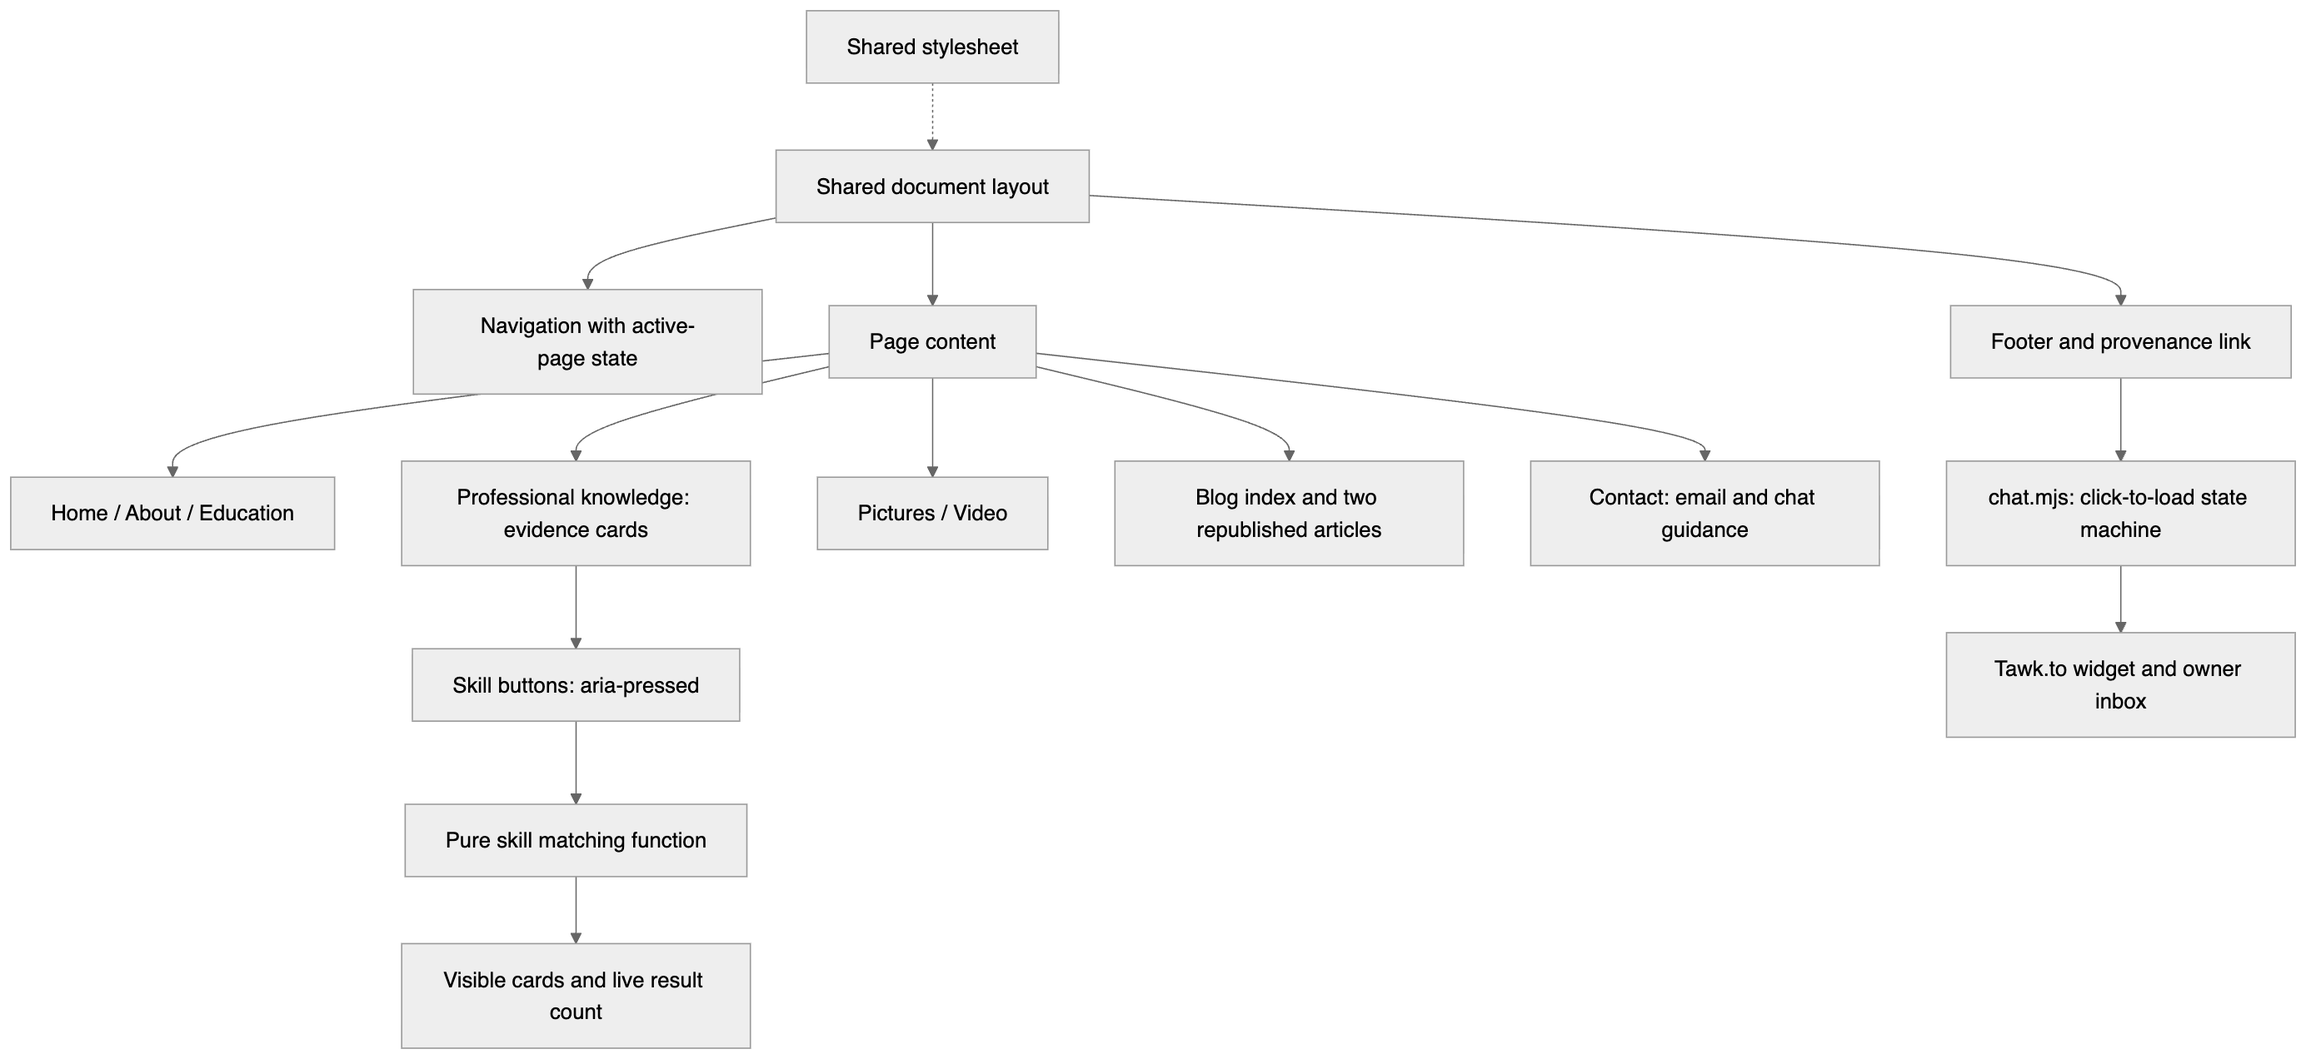
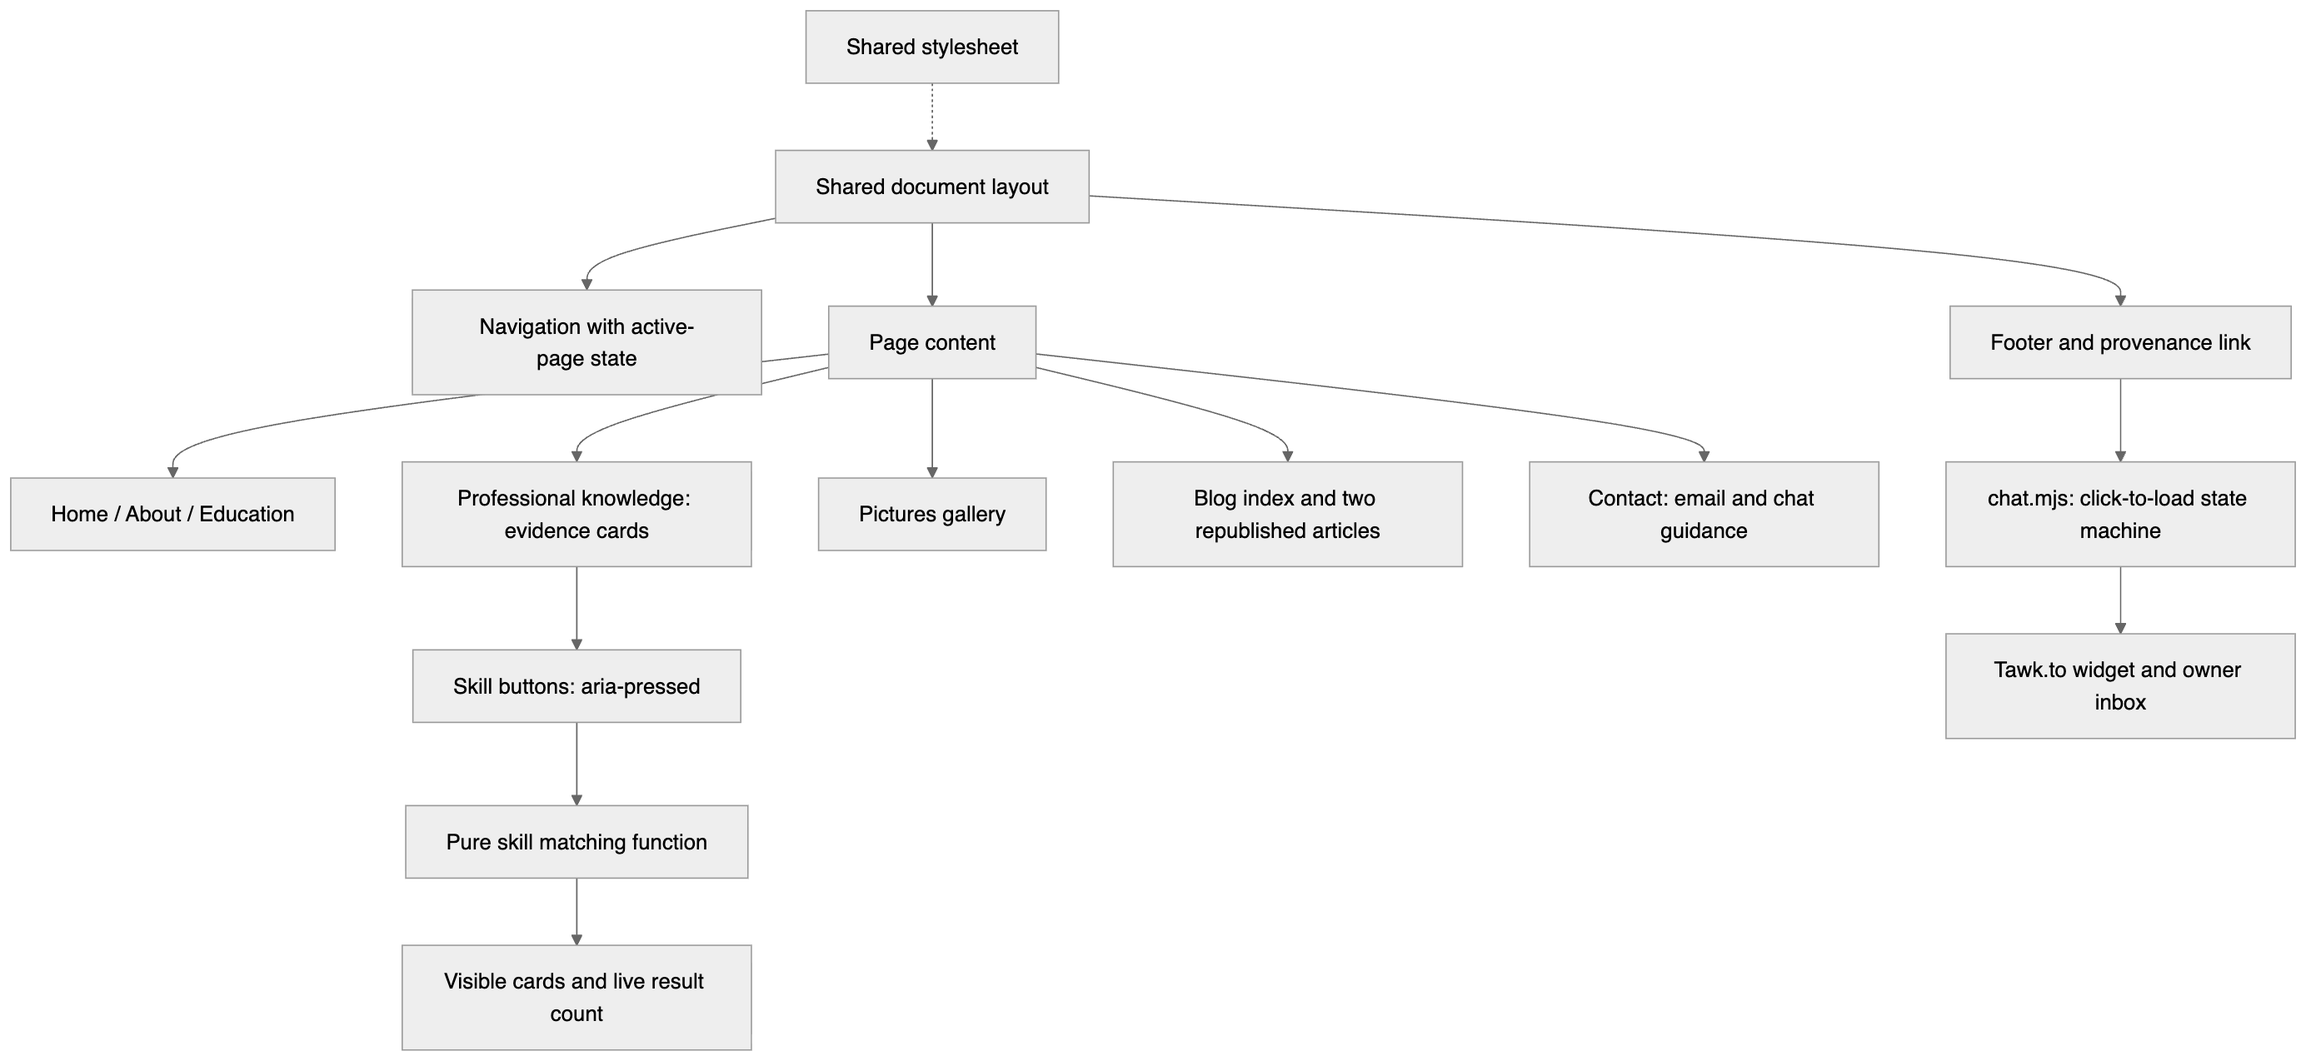
feat(cs5709): remove the video gallery, which Phase 1 does not require
The page only ever showed an unfinished notice. The navigation, tests, report, design diagram and README now describe five content pages plus blog and contact, with video proposed for Phase 2.

diff --git a/2026-27/SEM1/CS5709 - Software Engineering Evolution/Assignment 1/report/source.html b/2026-27/SEM1/CS5709 - Software Engineering Evolution/Assignment 1/report/source.html
@@ -45,13 +45,13 @@
 
 <section id="abstract">
   <h2>2. Abstract</h2>
-  <p>This project is a digital portfolio that presents my education, professional engineering work, event photographs and technical writing, and lets visitors message me directly. It is a separate site from my production portfolio, built to be small enough to explain completely. A Node.js build script combines one module per page with a shared layout and writes plain HTML documents, which Appwrite Sites serves. CSS provides a responsive layout, and two small browser scripts add progressive enhancements: a filter that links skills to project evidence, and a hosted Tawk.to chat widget that loads only after the visitor chooses to open it. All content stays readable without JavaScript. The work was carried out in three dated iterations recorded in Git, and is checked by 25 automated tests (structure, links, contrast, filtering, chat loading and a 404 regression) plus browser checks on the live site at desktop and mobile widths. The main remaining limitation is the video gallery (see Section 6).</p>
+  <p>This project is a digital portfolio that presents my education, professional engineering work, event photographs and technical writing, and lets visitors message me directly. It is a separate site from my production portfolio, built to be small enough to explain completely. A Node.js build script combines one module per page with a shared layout and writes plain HTML documents, which Appwrite Sites serves. CSS provides a responsive layout, and two small browser scripts add progressive enhancements: a filter that links skills to project evidence, and a hosted Tawk.to chat widget that loads only after the visitor chooses to open it. All content stays readable without JavaScript. The work was carried out in three dated iterations recorded in Git, and is checked by 24 automated tests (structure, links, contrast, filtering, chat loading and a 404 regression) plus browser checks on the live site at desktop and mobile widths.</p>
 </section>
 
 <section id="discovery" class="new-page">
   <h2>3. Discovery, feature narrative, iterative plan and tools</h2>
   <h3>Discovery</h3>
-  <p><strong>Audience and purpose.</strong> The site is read by the module assessor and by potential employers or collaborators. Both need evidence of what I have built and why, not a list of technologies. <strong>Requirements.</strong> The brief asks for Home, About, Education, Professional knowledge, Pictures and Video pages, a blog, instant messaging, shared navigation and CSS styling. <strong>Constraints.</strong> The deadline left about a week, the site had to be separate from my production portfolio, and the brief requires a full code listing, which rewards a small codebase.</p>
+  <p><strong>Audience and purpose.</strong> The site is read by the module assessor and by potential employers or collaborators. Both need evidence of what I have built and why, not a list of technologies. <strong>Requirements.</strong> The brief asks for Home, About, Education, Professional knowledge and Pictures pages, a blog, instant messaging, shared navigation and CSS styling. A video gallery is not required in this phase, so it is proposed for Phase 2. <strong>Constraints.</strong> The deadline left about a week, the site had to be separate from my production portfolio, and the brief requires a full code listing, which rewards a small codebase.</p>
   <p><strong>Key decisions.</strong> I generate static HTML at build time rather than building a single-page app, so every page has a real URL and works without JavaScript or a client-side router. For messaging, I compared building a WebSocket chat backend with using a hosted service. A custom backend would need hosting, storage, an owner interface and moderation, so I chose Tawk.to, which provides the visitor widget and an owner inbox and mobile app. Because it is a third party that processes visitor data, it loads only after a click and a privacy notice.</p>
   <h3>Feature narrative</h3>
   <table class="compact">
@@ -59,7 +59,7 @@
     <tbody>
       <tr><td>Profile</td><td>Home, About, Education with shared navigation</td><td>Downloadable tailored CV</td></tr>
       <tr><td>Professional knowledge</td><td>Three structured project examples; skill filter</td><td>More case studies; free-text search</td></tr>
-      <tr><td>Media</td><td>Captioned photo gallery; video page</td><td>Enlarged photo view; more videos with transcripts</td></tr>
+      <tr><td>Media</td><td>Captioned photo gallery</td><td>Video gallery with transcripts; enlarged photo view</td></tr>
       <tr><td>Blog</td><td>Two full technical articles with figures</td><td>Tags, search, Markdown authoring</td></tr>
       <tr><td>Messaging</td><td>Hosted instant messaging with privacy notice and email fallback</td><td>Notifications and conversation history for visitors</td></tr>
       <tr><td>Quality</td><td>Responsive layout, keyboard use, automated tests</td><td>Automated deployment and user testing</td></tr>
@@ -133,7 +133,7 @@
   <p>Portfolios usually list skills on their own. Here each skill is a button that filters project case studies, each with the problem, my contribution, a design choice and where to look for evidence, so a reader can go from “Go” or “APIs” to the work that shows it. The buttons expose their state with <code>aria-pressed</code> and a live region announces the result count. The filter is added only when its script loads; without it, all projects stay visible. It is a small, site-specific enhancement rather than a new technique.</p>
   <h3>Critique</h3>
   <p><strong>Strengths.</strong> Every page is a real document, so links, refresh and the Back button behave normally and the site works without JavaScript. The per-page modules keep the code short enough to list in full. Tests cover the site's structure as well as its logic, and caught a real defect: the host serves the 404 page at any missing path, which broke its relative links until the page was given a root base URL.</p>
-  <p><strong>Weaknesses.</strong> <span class="todo-inline">[Video: update this sentence once the video decision is made.]</span> Messaging depends on a third party: during testing, Tawk.to returned server errors on some session starts, which the site can report but not fix, and if I do not answer within Tawk.to's wait time, an automatic message (reworded on 1 October from a generic support-team text) asks the visitor for an email address instead. The site also returns HTTP 200 for missing pages, which is host behaviour I could not change. Page content is written as HTML inside JavaScript modules, which is harder to edit than Markdown. Two of three professional knowledge examples come from my job, and the third is this coursework, so the evidence is thin. The automated tests check structure, not real usability, and no one outside the project has used the site.</p>
+  <p><strong>Weaknesses.</strong> Messaging depends on a third party: during testing, Tawk.to returned server errors on some session starts, which the site can report but not fix, and if I do not answer within Tawk.to's wait time, an automatic message (reworded on 1 October from a generic support-team text) asks the visitor for an email address instead. The site also returns HTTP 200 for missing pages, which is host behaviour I could not change. Page content is written as HTML inside JavaScript modules, which is harder to edit than Markdown. Two of three professional knowledge examples come from my job, and the third is this coursework, so the evidence is thin. The automated tests check structure, not real usability, and no one outside the project has used the site.</p>
   <p><strong>Improvements for Phase 2.</strong> Author articles in Markdown; add more case studies and search; add automated build, test and deploy on each push; run a short usability test with two or three people; and add notifications so visitors know when I reply.</p>
   <h3>Reflection</h3>
   <p>Reflecting on this assignment, I was able to learn a lot more things as I was pretty much rebuilding what I already had, a portfolio website I have maintained over the years, to a new version from scratch. I was able to evolve the software in a manner where I can actually study the foundations of it and improve on them. For this iteration of the assignment I decided to go with static HTML over a complex framework like TanStack, which I used before, as it helped me get a more skeleton view of my work. I used Claude Code for help with it, but wanted my input to be genuine, so it helped me with much more of the manual work like testing. The tests did catch various bugs I hadn't thought of in my initial go. I also experimented with adding some new features which my older website did not have, for example a chat box. I did not want to invent it by hand, so I used Tawk.to, which initially was a bit hard to get around, but once set up it works quite well. I reused a lot of the components of the previous portfolio website like the articles page, which includes text from my original articles itself. Keeping the work small and focused did give me a much more relaxed view of the moving components, and let me work freely on how I wanted them to evolve. It's hard to assess your own work, but I think generative AI and having chats with it critiquing my own work did help me a lot with it.</p>

diff --git a/2026-27/SEM1/CS5709 - Software Engineering Evolution/Assignment 1/README.md b/2026-27/SEM1/CS5709 - Software Engineering Evolution/Assignment 1/README.md
@@ -17,7 +17,7 @@ Audience: prospective collaborators and the assessor. Purpose: show Chirag's edu
 - Original generated URL (still available): https://6abcf8640007fde5290d.appwrite.network
 - Domain proxy rule: `45595318d1d7cc10d91686583a8ac5fc` (verified; linked to assignment site). Created with `appwrite proxy create-site-rule --domain chirag-cs5709.appwrite.network --site-id cs5709-portfolio-phase1`; HTTPS opening verified with Playwright.
 - [Deployment console](https://cloud.appwrite.io/console/project-sgp-chirag-project-prod/sites/site-cs5709-portfolio-phase1)
-- Status: site deployed and verified on 1 October; report PDF generated. **Not submission-ready**: video, reflection and policy review pending (see the yellow to-do boxes in the PDF).
+- Status: site deployed and verified on 1 October; report PDF generated. **Not submission-ready**: policy review of the declaration pending (see the yellow to-do boxes in the PDF).
 - Appwrite: Main Project (`chirag-project-prod`), Singapore (`sgp`)
 - Assignment site ID: `cs5709-portfolio-phase1` (separate from production)
 - Source repository: https://github.com/ChiragAgg5k/ul-university-notes (this directory; local changes need pushing)
@@ -43,7 +43,7 @@ Open http://localhost:5709. Requires Node 22+ and Python 3. No npm dependencies.
 | Education              | UL, Bennett and school history                      | Module/project evidence                |
 | Professional knowledge | Three structured examples with working skill filter | Free-text search and more case studies |
 | Pictures               | Captioned existing portfolio photos                 | Filtering and enlarged view            |
-| Video                  | Playable relevant video with accessible description | Multiple videos and transcripts        |
+| Video                  | Not required in Phase 1 (removed 1 October)         | Video gallery with transcripts         |
 | Blog                   | Locally readable article content                    | Tags, search and content management    |
 | Messaging              | Genuine visitor-to-owner instant messaging          | History, notifications and moderation  |
 | Navigation/CSS         | All pages linked, responsive, keyboard usable       | Further usability refinements          |
@@ -59,7 +59,7 @@ Phase 2 is a proposed enhancement list, not a reason to omit Phase 1 functionali
 - [x] Select a simpler architecture and define sitemap.
 - [ ] Confirm permission to adapt pre-existing work and applicable AI policy.
 - [x] Choose Tawk.to and integrate the owner-provided public widget.
-- [ ] Finalise video selection.
+- [x] Video: confirmed not required; video page removed on 1 October.
 
 ### Design (3 marks)
 
@@ -68,18 +68,18 @@ Phase 2 is a proposed enhancement list, not a reason to omit Phase 1 functionali
 
 ### Development, iteration 1 (3 marks)
 
-- [x] Build Home, About, Education, Professional knowledge, Pictures, Blog and article; scaffold Video and Contact with honest incomplete states.
+- [x] Build Home, About, Education, Professional knowledge, Pictures, Blog and article and Contact.
 - [x] Verify shared navigation and direct page URLs.
 - [x] Integrate real hosted messaging with click-to-load privacy notice, error handling and email fallback.
 - [x] Confirm visitor messages reached the owner inbox and send a labelled owner-side reply.
-- [x] Confirm the reply appears in the visitor widget (1 October: "reply received" sent from the dashboard appeared in the live visitor widget; see `evidence/chat-reply-*.png`). Video gallery still pending.
+- [x] Confirm the reply appears in the visitor widget (1 October: "reply received" sent from the dashboard appeared in the live visitor widget; see `evidence/chat-reply-*.png`).
 - [x] Record initial foundation commit including current styling; no separate unstyled milestone is claimed.
 
 ### Development, iteration 2 (3 marks)
 
 - [x] Style every page and check desktop/mobile layouts for horizontal overflow.
 - [x] Test keyboard navigation, focus and contrast and image descriptions (photo alt text rewritten from the photographs on 1 October).
-- [x] Verify media, blog navigation and messaging end to end (video excepted).
+- [x] Verify media, blog navigation and messaging end to end.
 - [x] Deploy isolated assignment site and record working live URL.
 - [x] Add progressively enhanced skill filtering, structured evidence and a complete technical article; verify interactions.
 
@@ -118,7 +118,7 @@ Contents: cover; contents; 1 declaration and transparency; 2 abstract; 3 discove
 
 ## Verification so far
 
-- `cd site && npm run build && npm test`: **25 passing tests** (document structure, required files, internal links/assets, active navigation, image alt attributes, exact skill matching, progressive enhancement, incomplete-feature disclosures, 404 links resolving from the site root, and WCAG AA contrast of every text colour pair in the stylesheet).
+- `cd site && npm run build && npm test`: **24 passing tests** (document structure, required files, internal links/assets, active navigation, image alt attributes, exact skill matching, progressive enhancement, click-to-load chat disclosure, 404 links resolving from the site root, and WCAG AA contrast of every text colour pair in the stylesheet).
 - Bug found 1 October: the host serves `404.html` at any missing path (with HTTP 200), so on `/blog/nested/missing` its relative stylesheet and navigation links resolved under `/blog/nested/` and every link led to another 404. Fixed with `<base href="/">` on the 404 document only; the regression test fails without it. Simulated nested-path check confirmed styles and links load from the root.
 - Keyboard pass 1 October: tab order is skip link, identity, eight navigation links, then page content; every focused element shows a solid outline. All ten pages at 390px: no horizontal overflow, one active navigation item, no script errors.
 - Initial live Playwright checks at 1440px and 390px: all nine original content URLs returned HTTP 200, one active navigation item each, no horizontal overflow.
@@ -128,7 +128,7 @@ Contents: cover; contents; 1 declaration and transparency; 2 abstract; 3 discove
 - Actual application screenshots: [desktop home](evidence/home-desktop.png), [mobile gallery](evidence/gallery-mobile.png), [desktop skill filter](evidence/skill-filter-desktop.png), [mobile skill filter](evidence/skill-filter-mobile.png).
 - Keyboard smoke check: first Tab focuses “Skip to content”. Full accessibility audit and external-link testing not yet complete.
 - Chat integration: local mocked-provider browser checks passed for no request before clicking, load/reopen with one script, and blocked-provider failure handling. On the real live site, the widget loaded and a labelled integration-test message appeared in the visitor conversation. **Owner inbox receipt is now confirmed.** On 1 October a dashboard reply ("reply received") appeared in the live visitor widget, so two-way messaging is verified ([visitor](evidence/chat-reply-visitor.png), [dashboard](evidence/chat-reply-dashboard.png)). See [desktop chat](evidence/chat-desktop.png) and [mobile chat](evidence/chat-mobile.png). Mobile viewport check at 390px showed no document overflow and an open widget.
-- Video playback: **not implemented or tested**. Report: **Markdown draft written; PDF not yet exported**.
+- Video: not required for Phase 1; the page was removed on 1 October. Report: PDF generated by `node report/pdf.mjs`.
 
 ## Navigation enhancement
 

diff --git a/2026-27/SEM1/CS5709 - Software Engineering Evolution/Assignment 1/DESIGN.md b/2026-27/SEM1/CS5709 - Software Engineering Evolution/Assignment 1/DESIGN.md
@@ -8,8 +8,8 @@ Tokens: paper `#ffffff`, background `#f3f6fa`, ink `#192b40`, blue `#174a79`, mu
 
 ## Sitemap
 
-Home → About · Education · Professional knowledge · Pictures · Video · Blog · Contact.
-Blog → two complete republished articles (“How we solved logging at Appwrite” and “How I built the Appwrite MCP server”), each linking to its original. Professional knowledge → filter by skill → linked project evidence. Contact offers email and hosted Tawk.to chat. A shared footer button loads the provider after an explicit visitor click and privacy notice. The choice is remembered for the tab; later active pages warm the widget in the background. Video is a clearly marked unfinished page until a real video is selected.
+Home → About · Education · Professional knowledge · Pictures · Blog · Contact.
+Blog → two complete republished articles (“How we solved logging at Appwrite” and “How I built the Appwrite MCP server”), each linking to its original. Professional knowledge → filter by skill → linked project evidence. Contact offers email and hosted Tawk.to chat. A shared footer button loads the provider after an explicit visitor click and privacy notice. The choice is remembered for the tab; later active pages warm the widget in the background. A video gallery is not required in Phase 1 and is proposed for Phase 2.
 
 ## Block diagram
 
@@ -39,7 +39,7 @@ flowchart TD
   Knowledge --> Controls[Skill buttons: aria-pressed]
   Controls --> Matching[Pure skill matching function]
   Matching --> Status[Visible cards and live result count]
-  Main --> Media[Pictures / Video]
+  Main --> Media[Pictures gallery]
   Main --> Blog[Blog index and two republished articles]
   Main --> Contact[Contact: email and chat guidance]
   Footer --> Loader[chat.mjs: click-to-load state machine]
